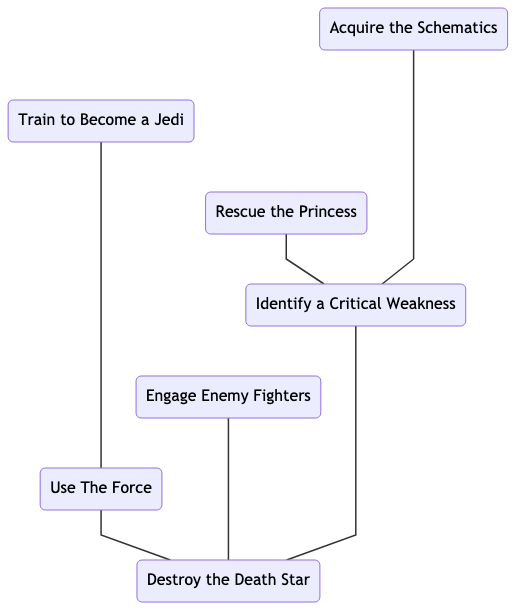
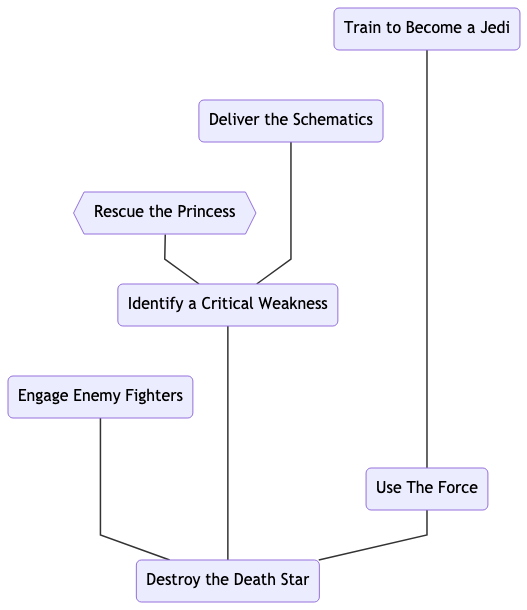
Updates to narrative structure description

diff --git a/narrative_structure.md b/narrative_structure.md
@@ -1,51 +1,78 @@
-# Game Play
-The structure of a traditional tabletop RPG adventure relies on a Game Master (GM) to provide an environment for the other players to explore and interact with.
-Frequently, this takes the form of a series of encounters that the players work through one at a time in some predetermined order. This has the advantage of simplicity and allows the GM to craft a coherent plot but severely limits player agency.  
+# Narrative Structure
+The structure of a traditional tabletop RPG adventure relies on a Game Master (GM) to provide an environment for the other players to explore and interact with. Frequently, this takes the form of a series of encounters that the players work through one at a time in some predetermined order. This has the advantage of simplicity and allows the GM to craft a coherent plot but severely limits player agency.  
 
 Alternatively, a GM might prepare a network of possible encounters for the players to explore in a less structured manner. This give the non-GM players more agency but requires the GM to generate a large amount of content ahead of time, some of which may never be seen by the other players.
 
 In this example, we propose a very different structure.  
 
 ## Encounters
-An _encounter_ is a significant event in the game's storyline. The outcome of each encounter hinges on a single _critical resolution roll_.  A critical resolution roll can be a
+An _encounter_ is a significant event in the game's storyline. The outcome of each encounter hinges on a single _critical resolution roll_.  Encounters are created by the players and provide the skeleton on which the game's story is built.
+
+To create an encounter, one player should:
+   1. State the _objective_: Describe what the characters will be trying to accomplish.
+   2. Set the _stakes_: Describe what the characters stand to lose if they are unsuccessful.
+   3. Determine the _difficulty_: Establish the parameters of the critical resolution roll.
+
+A critical resolution roll can be a
 [static resolution](README.md#static-resolution)
 roll or a
 [dynamic resolution](README.md#dynamic-resolution)
-roll.
-
-To create an encounter, one player should:
-   1. Provide a brief narrative description of what the characters will be trying to accomplish during during the encounter.
-   2. Establish the parameters of the encounter's critical resolution roll.
-      * If the critical resolution roll is a static resolution roll then this amounts to choosing a target number.
-      * If the critical resolution roll is a dynamic resolution roll then this amounts to describing the opposition.  This could mean explicitly describing the opposing check or describing the character(s) who will be making the opposing check.
+roll. If the critical resolution roll is a static resolution roll then establishing that roll's parameters amounts to choosing a target number.
+If the critical resolution roll is a dynamic resolution roll then establishing that roll's parameters amounts to describing the opposition.
+This could mean explicitly describing the opposing check or describing the character who will be making the opposing check.
 
 ## Backstory
-Once the parameters for an encounter's critical resolution roll have been established, all of the players have an opportunity to describe other encounters which comprise the immediate _backstory_ for the original encounter. The outcomes of these backstory encounters will contribute
-[modifiers](README.md#modifiers)
-to the original encounter's critical resolution roll.
-In general, static resolution should be used for backstory encounters should be a if there is a reward for success but no penalty associated with failure.
-In this case, success should contribute positive modifiers to the critical resolution roll for the original encounter.
-Dynamic resolution should be used if there are penalties associated with failure.
-In this case, winning should contribute positive modifiers  to the critical resolution roll for the original encounter while losing should contribute negative modifiers.
+Once the parameters for an encounter's critical resolution roll have been established, all of the players have an opportunity to describe other encounters which comprise the immediate _backstory_ for the original encounter.
 
 This process is recursive.  That is, backstory encounters are
 generated in the same way as the original encounter.
 
-## Session
-A _session_ is made up of a series of encounters. At the beginning of each session, one of the players describes an encounter that will serve as the _climax_ of the story that the players will tell during that session.
+## Consequences
+An encounter is affected by the _consequences_ of the outcomes of the critical resolution rolls for its backstory encounters.
+The consequences of the outcome of an encounter are derived from its objective and stakes. By default, success means that the characters accomplish their objective while failure means that the characters lose their stake.
+
+Failure, however, presents the players with the opportunity to choose instead to _raise the stakes_. This option allows players to mitigate the effects of failure by inserting an encounter into the game's storyline.
+The objective of this new encounter should directly address the consequences of the failed encounter.
+The stakes for this new encounter must be greater than those for the failed encounter.
+
+<!-- The simplest consequences are
+[modifiers](README.md#modifiers)
+that are applied to the encounter's critical resolution roll;
+successes contribute positive modifiers whilst failures contribute negative modifiers. -->
+
+## Adventures
+An _adventure_ is made up of a series of encounters. At the beginning of each session, one of the players describes an encounter that will serve as the _climax_ of the adventure.
 
 #### Example: Star Wars
 
 ![Star Wars plot diagram](star_wars_diagram.png)
 
-```
+<!-- ```
 Destroy the Death Star
-|   |-- Use The Force
-|   |   |-- Train to Become a Jedi
+|-- Use The Force
+|   |-- Train to Become a Jedi
+|   
+|-- Identify a Critical Weakness
+|   |-- Rescue the Princess
+|   |-- Acquire the Schematics
+|
+|-- Engage Enemy Fighters
+```     -->
+
+#### Example: The Incredibles
+
+![The Incredibles plot diagram](the_incredibles_diagram.png)
+
+<!-- ```
+Destroy the Omnidroid
+|-- Identify a Critical Weakness
+|   |-- Battle Prototype Omnidroids
+|   |   |-- Training Montage
+|   |   |-- New Super Suits
 |   |   
-|   |-- Identify a Critical Weakness
-|   |   |-- Rescue the Princess
-|   |   |-- Acquire the Schematics
-|   |
-|   |-- Engage Enemy Fighters
-```    
+|   |-- Rescue Mr. Incredible
+|   |   |-- A Family Affair
+|
+|-- Enlist Frozone's Help
+|   |-- Relive the Glory Days
+``` -->

diff --git a/star_wars_diagram.md b/star_wars_diagram.md
@@ -1,10 +1,10 @@
 graph BT;
 n0(Destroy the Death Star);
 n0 --- n1(Use The Force);
-       n1 ------ n5(Train to Become a Jedi);
+       n1 ------- n4(Train to Become a Jedi);
 
 n0 ---- n2(Engage Enemy Fighters);
 
 n0 ----- n3(Identify a Critical Weakness);
-         n3 --- n4(Rescue the Princess);
-         n3 ----- n6(Acquire the Schematics);
+         n3 --- n5{{Rescue the Princess}};
+         n3 ---- n6(Deliver the Schematics);
